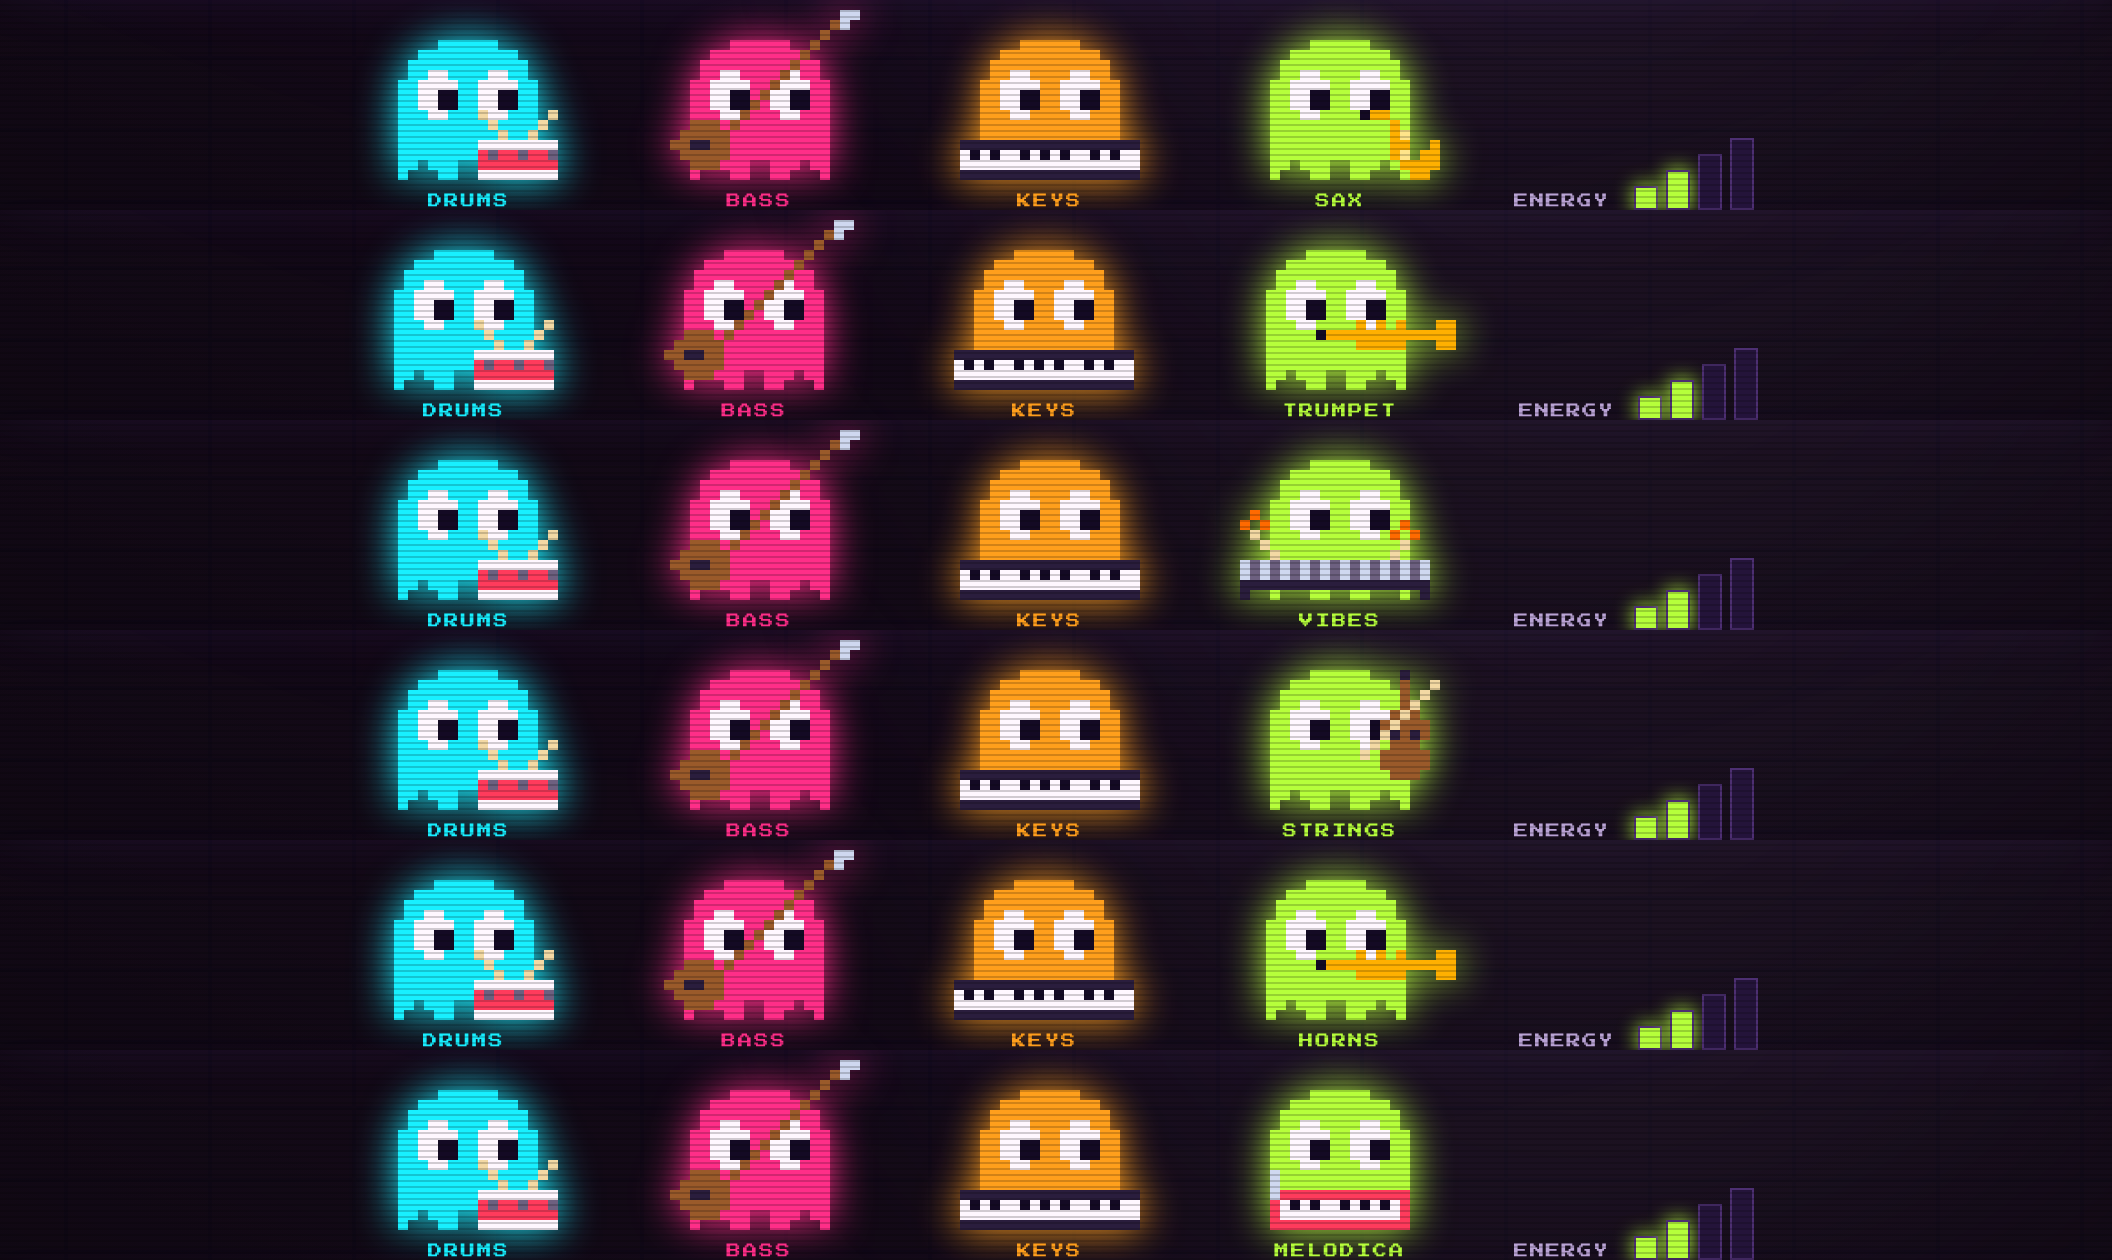
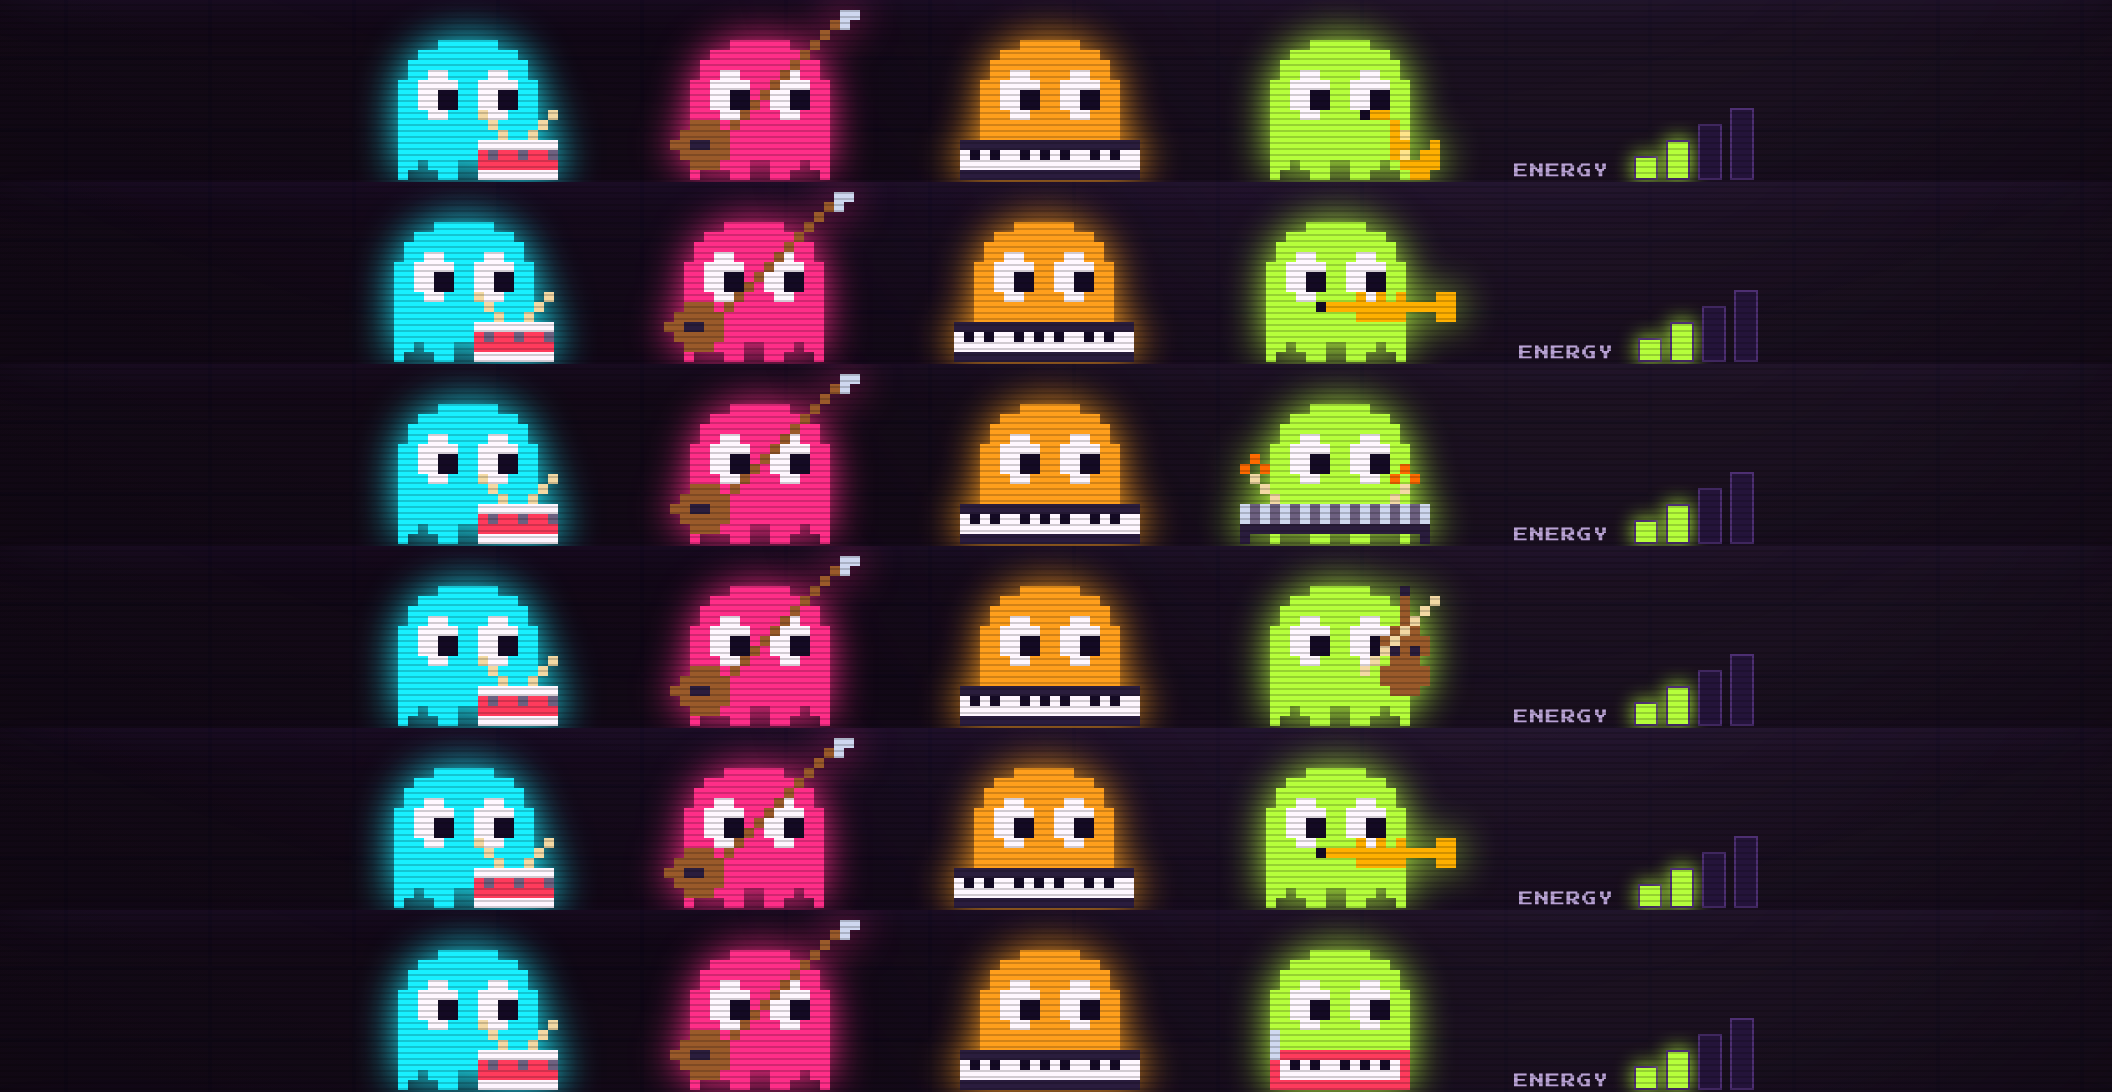
Ghost Jam: no captions under the ghosts, their instruments say who is who
Names stay as labels for screen readers and as a hover title.

Claude-Session: https://claude.ai/code/session_01CbgJPvH5Uj79DTWXv8xgAA

diff --git a/jam/js/main.js b/jam/js/main.js
@@ -162,12 +162,16 @@ const ghostSprite = (part, style) => {
   const gear = part === 'guest' ? GUESTS[style].patch : part;
   return sprite(MAPS[`ghost-${gear}`] ? `ghost-${gear}` : 'ghost', { px: 5 });
 };
-const ghostHtml = (m, style) => `<div class="ghost ghost-${m.color}" data-part="${m.id}">${ghostSprite(m.id, style)}<span class="ghost-name">${m.id === 'guest' ? GUESTS[style].name : m.name}</span></div>`;
+// No caption: the instrument says who is who, the name stays for screen readers and on hover.
+const ghostHtml = (m, style) => {
+  const name = m.id === 'guest' ? GUESTS[style].name : m.name;
+  return `<div class="ghost ghost-${m.color}" data-part="${m.id}" role="img" aria-label="${name}" title="${name}">${ghostSprite(m.id, style)}</div>`;
+};
 // On the setup page the guest is a secret: a pale ghost with no instrument,
 // since who sits in depends on the groove. Hover (or tap) for a teaser.
 $('bandIntro').innerHTML = BAND.slice(0, 3).map((m) => ghostHtml(m, settings.style)).join('')
-  + `<button type="button" class="ghost is-secret" data-part="guest" aria-expanded="false" aria-describedby="secretTip">
-      ${sprite('ghost', { px: 5 })}<span class="ghost-name">???</span>
+  + `<button type="button" class="ghost is-secret" data-part="guest" aria-label="Secret guest" aria-expanded="false" aria-describedby="secretTip">
+      ${sprite('ghost', { px: 5 })}
       <span class="secret-tip" id="secretTip" role="tooltip"><b>Secret guest</b>Every groove has its own. Get the band on fire and they walk on stage.</span>
     </button>`;
 const secret = $('bandIntro').querySelector('.is-secret');

diff --git a/jam/jam.css b/jam/jam.css
@@ -250,7 +250,6 @@ input[type="range"] { accent-color: var(--pink); width: 100%; }
 .ghost-cyan .sprite { filter: drop-shadow(0 0 10px var(--cyan)); }
 .ghost-pink .sprite { filter: drop-shadow(0 0 10px var(--pink)); animation-delay: -0.8s; }
 .ghost-orange .sprite { filter: drop-shadow(0 0 10px var(--orange)); animation-delay: -1.6s; }
-.ghost-name { font-family: var(--font-display); font-size: 0.45rem; letter-spacing: 0.14em; text-transform: uppercase; }
 @keyframes float { 50% { transform: translateY(-6px); } }
 
 .ghost-lime { color: var(--lime); }
@@ -261,7 +260,7 @@ input[type="range"] { accent-color: var(--pink); width: 100%; }
   position: relative; color: #d9d0e6; cursor: help;
   background: none; border: 0; padding: 0; font: inherit;
 }
-.ghost.is-secret > .sprite, .ghost.is-secret > .ghost-name { opacity: 0.35; animation: buzz 4.3s infinite 0.7s; transition: opacity 0.2s; }
+.ghost.is-secret > .sprite { opacity: 0.35; animation: buzz 4.3s infinite 0.7s; transition: opacity 0.2s; }
 .ghost.is-secret > .sprite { filter: drop-shadow(0 0 8px rgba(255, 255, 255, 0.5)); }
 .ghost.is-secret:hover > .sprite, .ghost.is-secret.open > .sprite,
 .ghost.is-secret:focus-visible > .sprite { opacity: 0.75; animation: float 2.4s ease-in-out infinite; }
